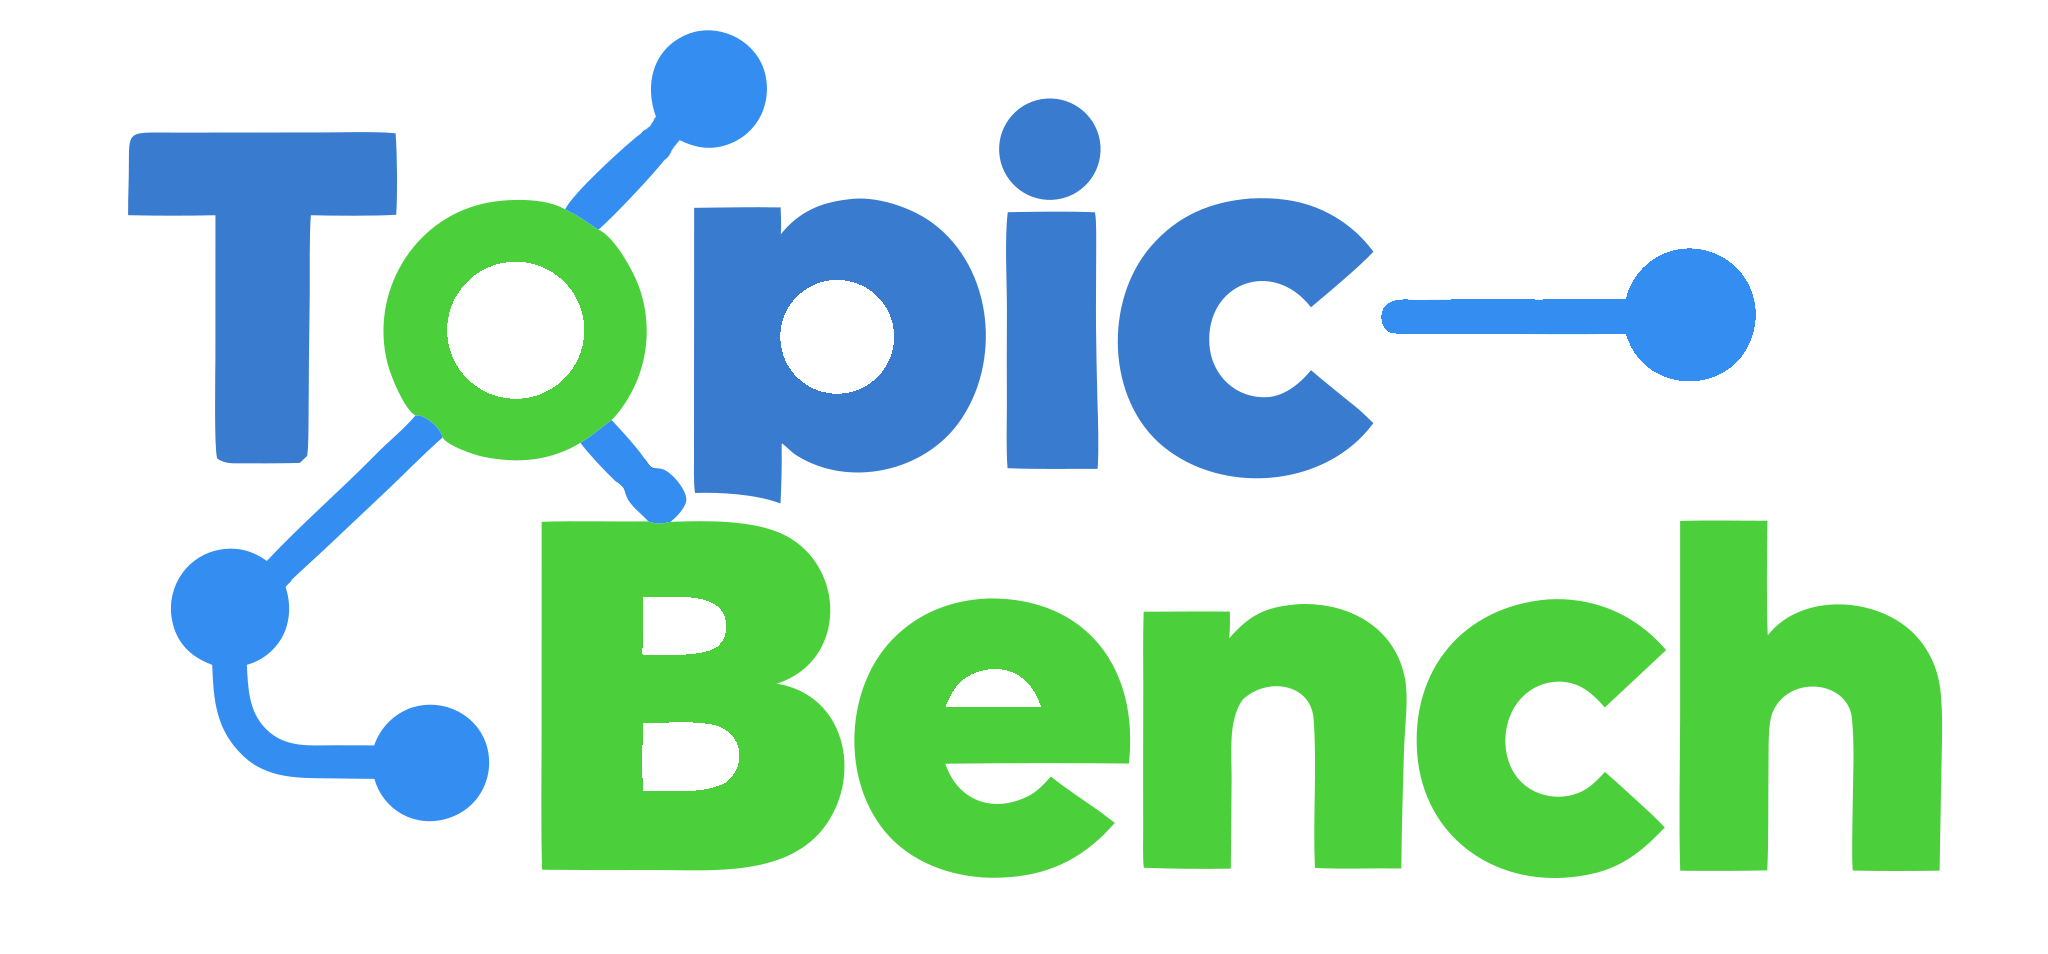
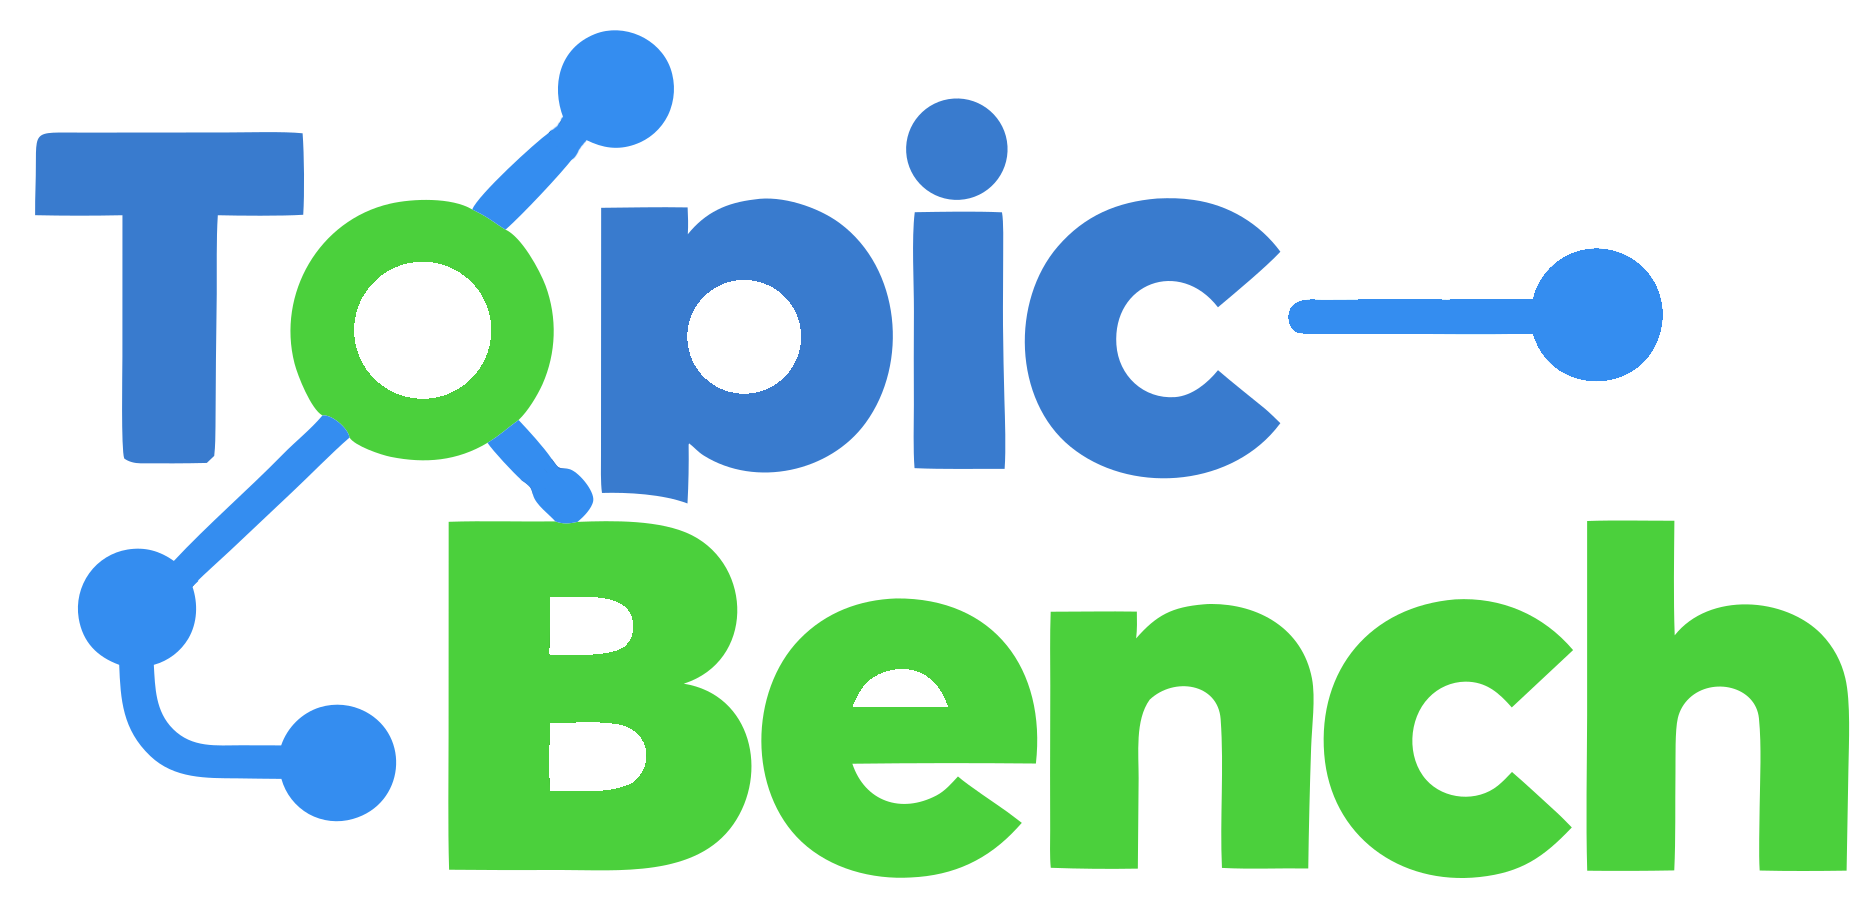
About/ribbon: topicbench-horizontal.png; full AA wordmark.
Use the horizontal brand PNG for ribbon + About with smooth
Triangle downscale, and replace the cropped AA hi-res with a
2× full AGILE AUTOMATION mark sized width-led in About.

diff --git a/src/app/layout.rs b/src/app/layout.rs
@@ -21,12 +21,12 @@ use image::RgbaImage;
 use std::collections::{BTreeMap, HashMap};
 use std::time::Instant;
 
-/// Ribbon paint from `topicbench-horizontal-512` at even ÷4 (512×239 → 128×59).
-const RIBBON_LOGO_NATIVE_W: f32 = 128.0;
+/// Ribbon paint from `topicbench-horizontal.png` (1873×908) — height fits CMD_H band.
+const RIBBON_LOGO_NATIVE_W: f32 = 122.0;
 const RIBBON_LOGO_NATIVE_H: f32 = 59.0;
-/// About header from the same asset at even ÷2 (→ 256×119).
+/// About header from the same asset (same aspect → 256×124).
 const ABOUT_LOGO_NATIVE_W: f32 = 256.0;
-const ABOUT_LOGO_NATIVE_H: f32 = 119.0;
+const ABOUT_LOGO_NATIVE_H: f32 = 124.0;
 /// Brand/group band — shared with Profiles/Panels/App via [`RIBBON_ROW_H`].
 const RIBBON_BRAND_H: f32 = RIBBON_ROW_H;
 /// Ribbon panel: brand band + vertical frame margins (4+4 from overlay).
@@ -479,7 +479,7 @@ impl MqttMonitorApp {
                     |ui| {
                         ui.set_height(brand_h);
                         ui.spacing_mut().item_spacing.x = 0.0;
-                        // Hi-res wordmark, integer-scaled to fit band (1 texel = 1 screen px).
+                        // Horizontal wordmark, smooth-downscaled to fit band.
                         let logo_resp = self.tb_logo.show(ui, logo_size.x, logo_size.y);
                         let painted = logo_resp.rect;
                         if logo_resp.clicked() {
@@ -1351,19 +1351,17 @@ pub(super) fn apply_font_zoom(ctx: &egui::Context, factor: f32) {
     ctx.style_mut(|s| s.text_styles = styles);
 }
 
-/// Paint budget in logical/UI px — even ÷4 of the 512 wordmark; fits CMD_H band.
+/// Paint budget in logical/UI px — fits CMD_H band.
 fn ribbon_logo_paint_size() -> egui::Vec2 {
     egui::vec2(RIBBON_LOGO_NATIVE_W, RIBBON_LOGO_NATIVE_H)
 }
 
-/// About header budget — even ÷2 of the same 512 wordmark.
+/// About header budget — same wordmark, larger paint.
 pub(super) fn about_logo_paint_size() -> egui::Vec2 {
     egui::vec2(ABOUT_LOGO_NATIVE_W, ABOUT_LOGO_NATIVE_H)
 }
 
-/// Topic Bench wordmark — `topicbench-horizontal-512.png`, even-integer box-downscale.
-///
-/// Display = source ÷ 2/4/6… (never odd factors); texture paints 1 texel = 1 screen px.
+/// Topic Bench wordmark — `topicbench-horizontal.png`, smooth aspect-fit downscale.
 #[derive(Default)]
 pub(super) struct TbLogo {
     entries: HashMap<(u32, u32), (TextureHandle, Vec2)>,
@@ -1389,7 +1387,7 @@ impl TbLogo {
         max_h: f32,
         clickable: bool,
     ) -> egui::Response {
-        const SRC: &[u8] = include_bytes!("../../assets/topicbench-horizontal-512.png");
+        const SRC: &[u8] = include_bytes!("../../assets/topicbench-horizontal.png");
         let ppp = ui.ctx().pixels_per_point().max(0.25);
         let max_w_px = (max_w * ppp).floor().max(1.0) as u32;
         let max_h_px = (max_h * ppp).floor().max(1.0) as u32;
@@ -1410,7 +1408,7 @@ impl TbLogo {
             ui.add(
                 egui::Image::new(tex)
                     .fit_to_exact_size(*size)
-                    .texture_options(nearest_tex_opts())
+                    .texture_options(linear_tex_opts())
                     .sense(sense),
             )
         } else {
@@ -1448,9 +1446,9 @@ pub(super) fn load_splash_logo(ctx: &egui::Context) -> Option<TextureHandle> {
     ))
 }
 
-/// About-dialog AA logo — hi-res company SVG raster, integer-scaled like Modbus/Chart Bench.
+/// About-dialog AA logo — full wordmark (icon + AGILE AUTOMATION), integer-scaled.
 ///
-/// Source is several× the ~64px About paint size so GPU never upscales a tiny bitmap.
+/// Hi PNG is a 2× of the authored wide mark (~1463×471); never the truncated SVG crop.
 #[derive(Default)]
 pub(super) struct AaAboutLogo {
     entries: HashMap<(u32, u32), (TextureHandle, Vec2)>,
@@ -1492,7 +1490,15 @@ fn nearest_tex_opts() -> TextureOptions {
     }
 }
 
-/// Topic Bench 512 wordmark — downscale by an **even** integer factor only (2×, 4×, …).
+fn linear_tex_opts() -> TextureOptions {
+    TextureOptions {
+        magnification: egui::TextureFilter::Linear,
+        minification: egui::TextureFilter::Linear,
+        ..TextureOptions::LINEAR
+    }
+}
+
+/// Topic Bench horizontal wordmark — smooth aspect-fit into the paint box.
 fn build_tb_mark(
     ctx: &egui::Context,
     bytes: &[u8],
@@ -1505,49 +1511,26 @@ fn build_tb_mark(
     if nw == 0 || nh == 0 {
         return None;
     }
-    let (tex_img, scale_up) = if nw <= max_w_px && nh <= max_h_px {
-        // Prefer even nearest upscale if the slot is larger; else 1:1.
-        let ux = (max_w_px / nw).max(1);
-        let uy = (max_h_px / nh).max(1);
-        let mut up = ux.min(uy).max(1);
-        if up > 1 && up % 2 == 1 {
-            up -= 1;
-        }
-        (raw, up.max(1))
+    let sx = max_w_px as f32 / nw as f32;
+    let sy = max_h_px as f32 / nh as f32;
+    let scale = sx.min(sy).min(1.0);
+    let ow = (nw as f32 * scale).floor().max(1.0) as u32;
+    let oh = (nh as f32 * scale).floor().max(1.0) as u32;
+    let out = if ow == nw && oh == nh {
+        raw
     } else {
-        let fx = ((nw + max_w_px - 1) / max_w_px).max(1);
-        let fy = ((nh + max_h_px - 1) / max_h_px).max(1);
-        let mut factor = fx.max(fy);
-        if factor < 2 {
-            factor = 2;
-        }
-        if factor % 2 == 1 {
-            factor += 1;
-        }
-        let cw = (nw / factor) * factor;
-        let ch = (nh / factor) * factor;
-        let ox = (nw - cw) / 2;
-        let oy = (nh - ch) / 2;
-        let cropped = image::imageops::crop_imm(&raw, ox, oy, cw, ch).to_image();
-        (integer_box_downscale(&cropped, factor), 1)
-    };
-    let (tw, th) = tex_img.dimensions();
-    let out = if scale_up > 1 {
         image::imageops::resize(
-            &tex_img,
-            tw * scale_up,
-            th * scale_up,
-            image::imageops::FilterType::Nearest,
+            &raw,
+            ow,
+            oh,
+            image::imageops::FilterType::Triangle,
         )
-    } else {
-        tex_img
     };
-    let (ow, oh) = out.dimensions();
     let color = ColorImage::from_rgba_unmultiplied([ow as usize, oh as usize], out.as_raw());
     let tex = ctx.load_texture(
         format!("tb-logo-{ow}x{oh}"),
         color,
-        nearest_tex_opts(),
+        linear_tex_opts(),
     );
     Some((tex, Vec2::new(ow as f32 / ppp, oh as f32 / ppp)))
 }

diff --git a/src/app/settings_modal.rs b/src/app/settings_modal.rs
@@ -480,7 +480,7 @@ impl MqttMonitorApp {
                 }
 
                 ui.vertical_centered(|ui| {
-                    // Same 512 wordmark as ribbon — even ÷2 (256×119), no fractional stretch.
+                    // Same horizontal wordmark as ribbon — smooth downscale.
                     let size = super::layout::about_logo_paint_size();
                     self.tb_logo.show_static(ui, size.x, size.y);
                     ui.add_space(10.0);
@@ -498,10 +498,12 @@ impl MqttMonitorApp {
                     ui.add_space(18.0);
                 });
 
-                // AA logo — hi-res company SVG raster, integer-scaled (needs &mut cache).
+                // AA full wordmark (icon + AGILE AUTOMATION) — width-led box, no squash/crop.
                 ui.vertical_centered(|ui| {
-                    self.aa_about
-                        .show_static(ui, ui.available_width().min(280.0), 64.0);
+                    let max_w = ui.available_width().min(320.0);
+                    // Authored AA mark ~1463×471 — height follows width so AUTOMATION stays in frame.
+                    let max_h = (max_w * 471.0 / 1463.0).ceil().max(48.0);
+                    self.aa_about.show_static(ui, max_w, max_h);
                     ui.add_space(14.0);
                     let link_blue = Color32::from_rgb(74, 144, 226);
                     let site = ui
